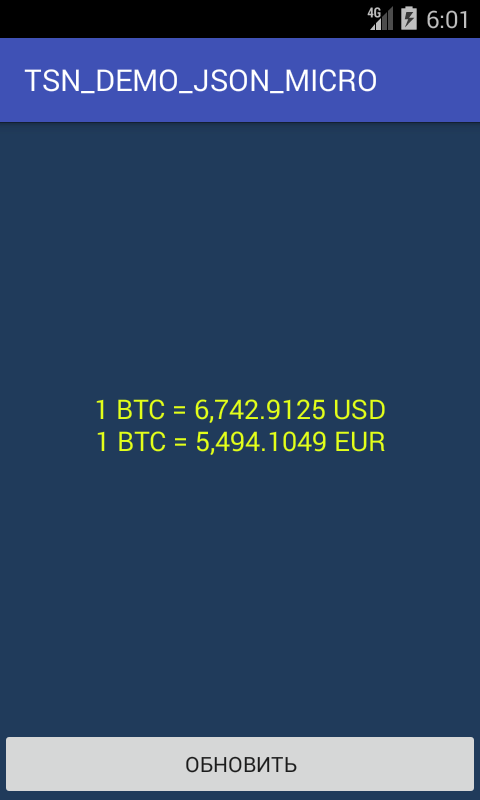
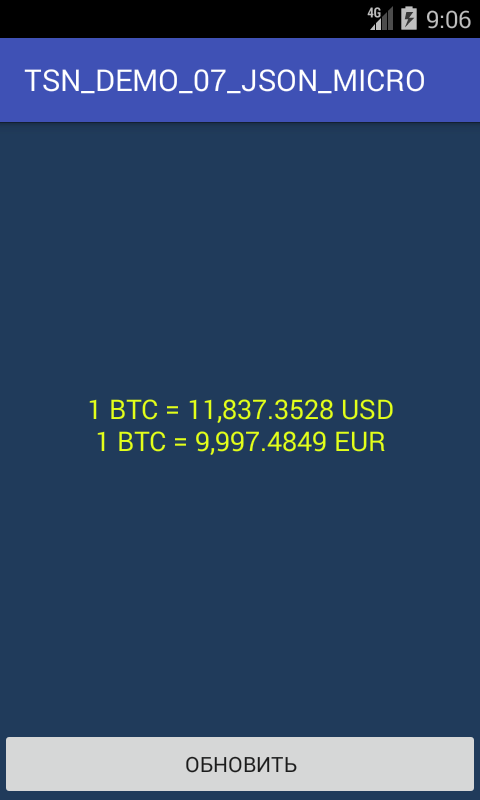
update

Changed region(s): [[0.4062, 0.0625, 0.9062, 0.125], [0.1875, 0.5, 0.8125, 0.5625], [0.875, 0.0, 1.0, 0.0312]]

diff --git a/TSN_DEMO_07_JSON_MICRO/README.md b/TSN_DEMO_07_JSON_MICRO/README.md
@@ -3,6 +3,10 @@
 
 ![Screenshot](screenshot1.png)
 
-![Screenshot](json.png)
+![Screenshot](json1.jpg)
 
-![Screenshot](json2.png)
+![Screenshot](json2.jpg)
+
+![Screenshot](json3.jpg)
+
+![Screenshot](json4.jpg)
